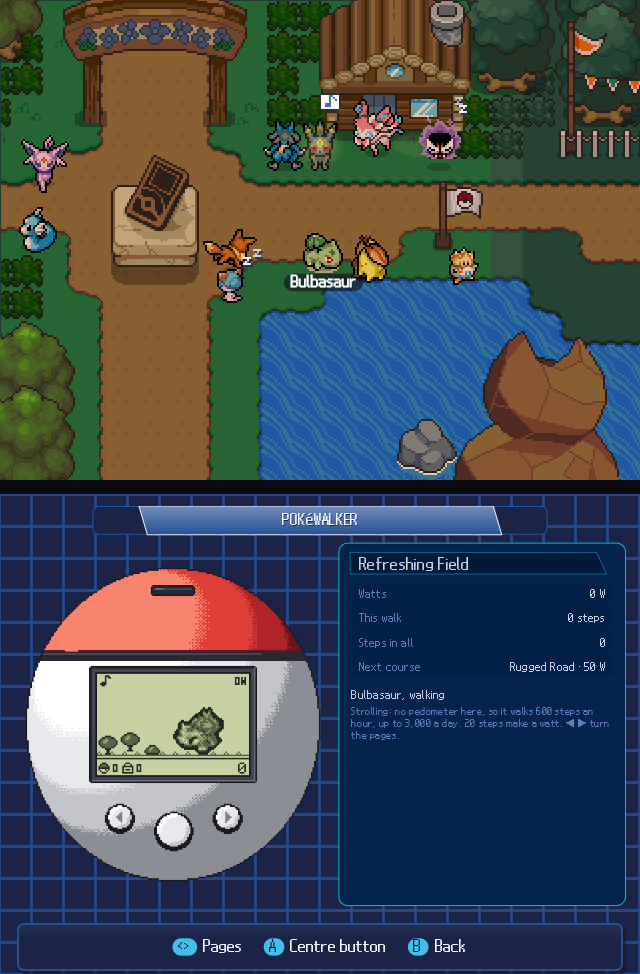
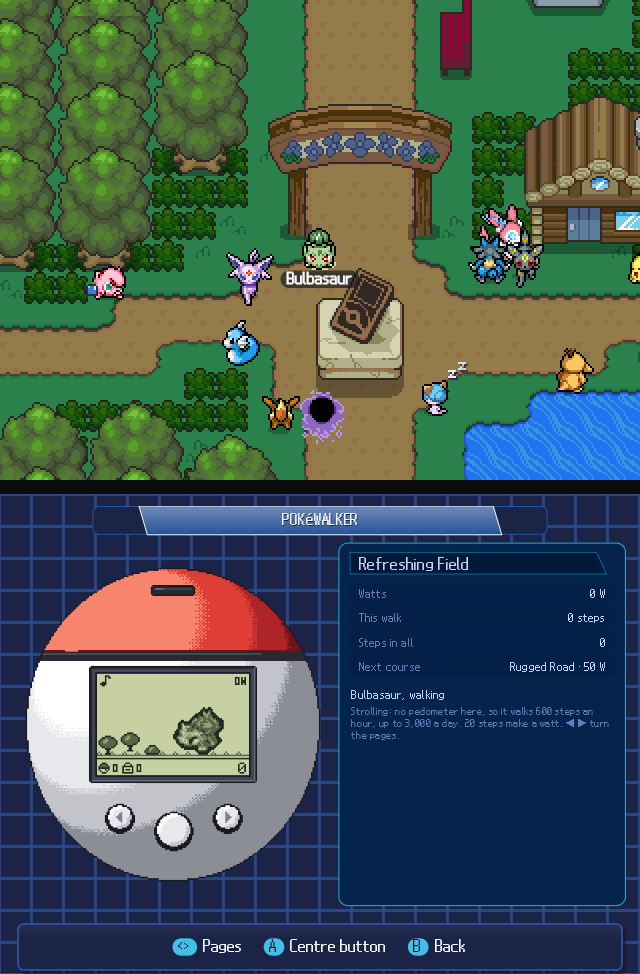
Record the 0.2.7 archive's rounds and retake the README screenshots
VALIDATION.md gains the published 0.2.7-dev archive's rounds on both
handhelds (clean exits, unchanged userdata; warm park at 30 FPS, Pokéwalker
60.0 / 58.5 FPS). The README screenshots are retaken from that archive with
demonstration data: the RG DS park now shows the whole journal below and the
"right now" pill over the park, and the box overview has the newer chrome.

diff --git a/VALIDATION.md b/VALIDATION.md
@@ -177,6 +177,29 @@ and the test folders were removed.
 These match the measurements of the change made with the 0.2.5 archive and the
 two rebuilt assemblies above.
 
+### 0.2.7-dev release archive — 15 November 2026
+
+0.2.7-dev changes how screens are laid out, not how the park is drawn: hint
+bars always fit, the RGDS park pills move over the park on the upper screen,
+cartridge dates are shortened instead of cut, and the older native screens use
+the newer chrome. The published archive (commit `6c90557`, tag
+`linux-v0.2.7-dev`, verified against both) was downloaded from the draft and
+run on both handhelds before publication, installed in isolation. Every round
+exited cleanly, `userdata` matched its hashes afterwards and the test folders
+were removed.
+
+| | RGDS | RG34XXSP |
+| --- | --- | --- |
+| 45-second round (cold start): park / Pokéwalker | 28.9 / 57.4 FPS | 29.2 / 57.6 FPS |
+| Six-minute round: warm park minutes | 29.7–30.0 FPS | 29.9–30.0 FPS |
+| Six-minute round: park frame drawn in | 8.7 ms (p95 14.0) | 16.3 ms (p95 22.0) |
+| Six-minute round: Pokéwalker | 60.0 FPS, under the park | 58.5 FPS |
+
+A screenshot round on the RGDS showed the whole journal on the lower screen
+(through BONDS) with the "right now" pill over the park above; the README's
+screenshots were retaken from this archive. On the RGDS lower screen the park's
+eight button hints now fit, at about 10 pixels.
+
 Not covered by these rounds: touch, lid and resume, data-safety acceptance, a
 soak through Home and the editors, and any look at the screens by a person other than the
 screenshots in the README. Start-up pauses of 200–700 ms remain in the first

diff --git a/README.md b/README.md
@@ -19,8 +19,8 @@ Other ARM64 ROCKNIX/KNULLI handhelds are experimental. The packages bundle .NET 
 
 ## Screenshots
 
-Captured on the two reference handhelds in November 2026, from 0.2.5-dev
-development builds, with demonstration data.
+Captured on the two reference handhelds in November 2026, from the 0.2.7-dev
+release archive, with demonstration data.
 
 **Anbernic RGDS** — both screens, top above bottom:
 
